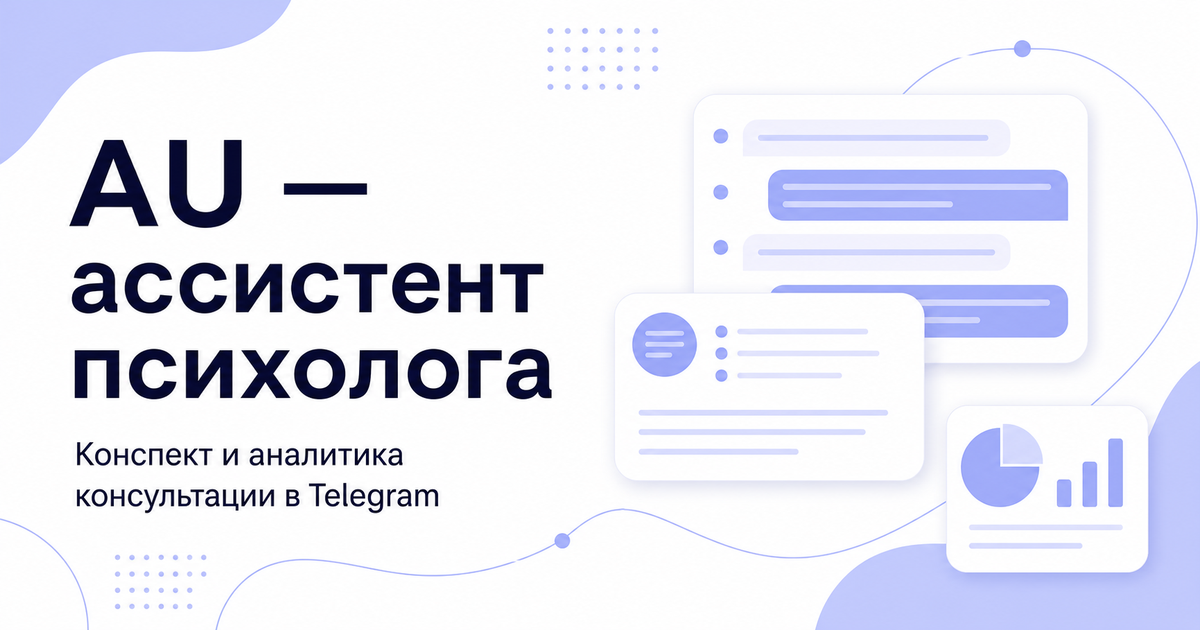
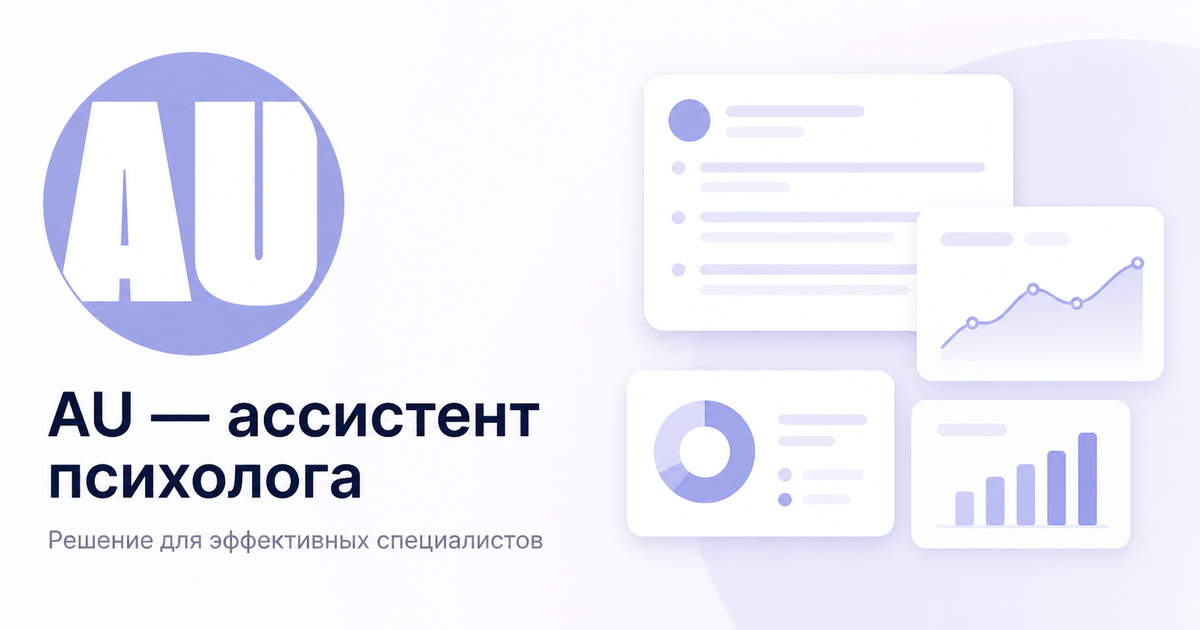
Refresh site preview branding

diff --git a/app/layout.tsx b/app/layout.tsx
@@ -5,20 +5,20 @@ export const metadata: Metadata = {
   metadataBase: new URL('https://au-psy-assistan.github.io/au-psy.github.io/'),
   title: 'AU — ассистент психолога',
   description: 'Приложение для расшифровки консультаций, конспекта, разметки когнитивных искажений и PDF-отчёта.',
-  icons: { icon: './favicon.png' },
+  icons: { icon: './favicon.png?v=2' },
   openGraph: {
     title: 'AU — ассистент психолога',
     description: 'Расшифровка, конспект и разметка когнитивных искажений в приложении AU.',
     type: 'website',
     locale: 'ru_RU',
     url: './',
-    images: [{ url: './og.png', width: 1200, height: 630, alt: 'AU — ассистент психолога' }],
+    images: [{ url: './og.png?v=2', width: 1200, height: 630, alt: 'AU — ассистент психолога' }],
   },
   twitter: {
     card: 'summary_large_image',
     title: 'AU — ассистент психолога',
     description: 'Расшифровка, конспект и разметка когнитивных искажений в приложении AU.',
-    images: ['./og.png'],
+    images: ['./og.png?v=2'],
   },
 };
 
